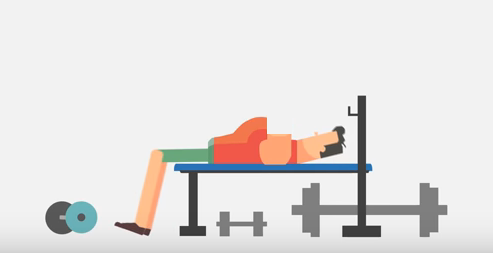
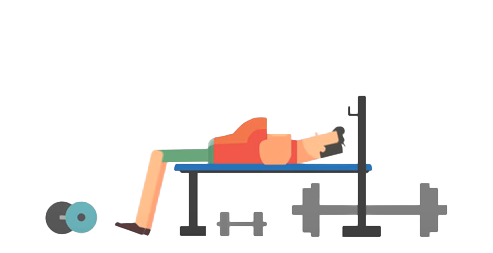
WiP background

diff --git a/Game/index.html b/Game/index.html
@@ -1,9 +1,6 @@
 <!DOCTYPE html>
 <html lang="en">
 <head>
-    <meta charset="UTF-8">
-    <title>Gra</title>
-    <link rel="stylesheet" type="text/css" href="game.css">
     <style>
         #playgame {
             display: flex;
@@ -11,11 +8,15 @@
             align-items: center;
             justify-content: center;
             height: 100vh;
-            /*background: url('fitness-background-images-005.jpg');*/
-            /*background-size: cover;*/
-            /*width: 100%;*/
-
         }
+        .all {
+            background: url('background.jpg');
+            background-size: cover;
+            width: 100%;
+            height: auto;
+            position: absolute;
+        }
+
 
         .game {
             width: 493px;
@@ -25,6 +26,7 @@
 
         .bench {
             background: url('rdy-to-css.png');
+
         }
 
         .weight {
@@ -42,11 +44,12 @@
             background-size: cover;
         }
 
+
         .score {
             font-size: 34px;
         }
 
-        .Scoreboard {
+        #Scoreboard {
             font-size: 30px;
         }
 
@@ -55,31 +58,36 @@
 
         }
     </style>
+    <meta charset="UTF-8">
+    <title>Gra</title>
+    <link rel="stylesheet" type="text/css" href="game.css">
 </head>
 <body>
-<div id="playgame">
-    <div id="Scoreboard">Bench Presses Score:
-        <div class="score">0</div>
-    </div>
-    <div class="game">
-        <div class="bench">
-
+<div class="all">
+    <div id="playgame">
+        <div id="Scoreboard">Bench Presses Score:
+            <div class="score">0</div>
         </div>
-        <div class="weight">
+        <div class="game">
+            <div class="bench">
 
+            </div>
+            <div class="weight">
+
+            </div>
+            <div class="barki">
+
+            </div>
         </div>
-        <div class="barki">
+        <div id="legend">
+            <div class="description">
+                <ul>
+                    <li>Press "Space Bar" to start benching.</li>
+                    <li>Score when your arms are almost straight.</li>
+                    <li>Remember to wait till bar is below the handler, then score again.</li>
 
-        </div>
-    </div>
-    <div id="legend">
-        <div class="description">
-            <ul>
-                <li>Press "Space Bar" to start benching.</li>
-                <li>Score when your arms are almost straight.</li>
-                <li>Remember to wait till bar is below the handler, then score again.</li>
-
-            </ul>
+                </ul>
+            </div>
         </div>
     </div>
 </div>
